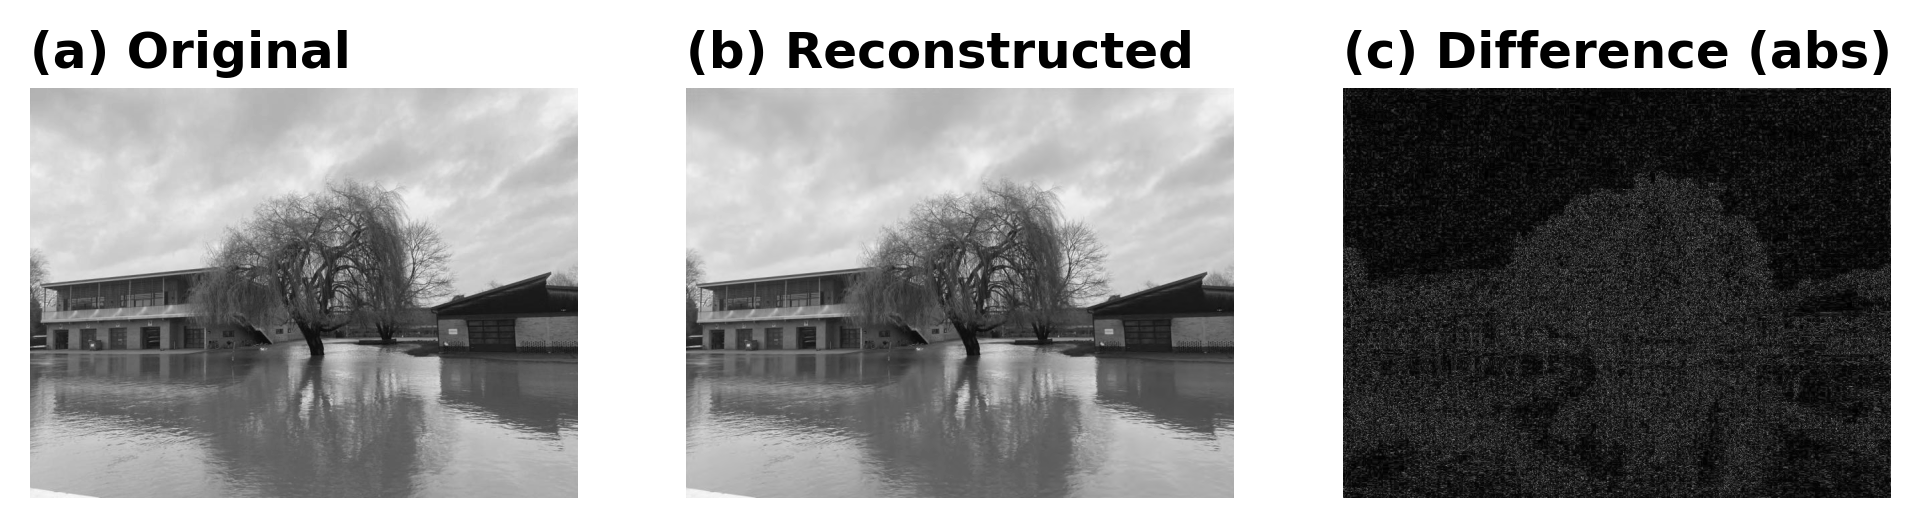
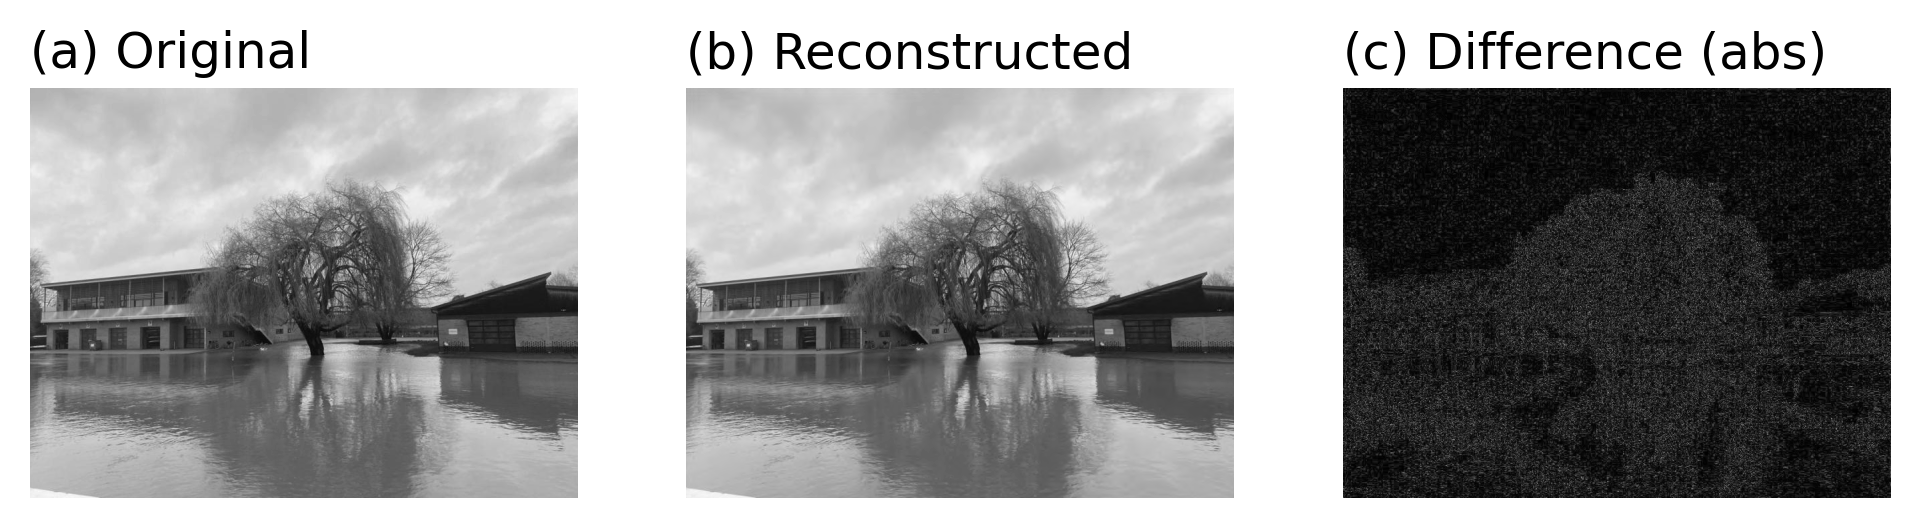
Minor

diff --git a/scripts/wavelet_compression.py b/scripts/wavelet_compression.py
@@ -77,13 +77,13 @@ print(f'Un-compressed reconstruction SSIM: {ssim:.5f}')
 # Show original, reconstruction, and difference
 fig, axes = plt.subplots(1,3,figsize=(8,8))
 axes[0].imshow(image,cmap='gray',vmin=vmin,vmax=vmax)
-axes[0].text(0., 1.05, '(a) Original', fontsize=12, transform=axes[0].transAxes, fontweight="bold")
+axes[0].text(0., 1.05, '(a) Original', fontsize=12, transform=axes[0].transAxes)
 
 axes[1].imshow(recon,cmap='gray',vmin=vmin,vmax=vmax)
-axes[1].text(0., 1.05, '(b) Reconstructed', fontsize=12, transform=axes[1].transAxes, fontweight="bold")
+axes[1].text(0., 1.05, '(b) Reconstructed', fontsize=12, transform=axes[1].transAxes)
 
 axes[2].imshow(abs_diff,cmap='gray')
-axes[2].text(0., 1.05, '(c) Difference (abs)', fontsize=12, transform=axes[2].transAxes, fontweight="bold")
+axes[2].text(0., 1.05, '(c) Difference (abs)', fontsize=12, transform=axes[2].transAxes)
 
 for ax in axes:
     ax.axis('off')
@@ -151,13 +151,13 @@ print(f'15% threshold SSIM: {ssim:.5f}')
 fig, axes = plt.subplots(1,3,figsize=(8,8))
 
 axes[0].imshow(image,cmap='gray',vmin=vmin,vmax=vmax)
-axes[0].text(0., 1.05, '(a) Original', fontsize=12, transform=axes[0].transAxes, fontweight="bold")
+axes[0].text(0., 1.05, '(a) Original', fontsize=12, transform=axes[0].transAxes)
 
 axes[1].imshow(recon,cmap='gray',vmin=vmin,vmax=vmax)
-axes[1].text(0., 1.05, '(b) Reconstructed', fontsize=12, transform=axes[1].transAxes, fontweight="bold")
+axes[1].text(0., 1.05, '(b) Reconstructed', fontsize=12, transform=axes[1].transAxes)
 
 axes[2].imshow(abs_diff,cmap='gray')
-axes[2].text(0., 1.05, '(c) Difference (abs)', fontsize=12, transform=axes[2].transAxes, fontweight="bold")
+axes[2].text(0., 1.05, '(c) Difference (abs)', fontsize=12, transform=axes[2].transAxes)
 
 for ax in axes:
     ax.axis('off')
@@ -203,7 +203,7 @@ for i, keep in enumerate(keep_proportions):
     # Show reconstruction and difference
 
     axes[i].imshow(recon,cmap='gray')
-    axes[i].set_title(f'{keep*100}% Retention', fontsize=12)
+    axes[i].set_title(f'{keep*100}% Retention', fontsize=13)
     axes[i].set_xlabel(f'PSNR: {psnr:.3f}, SSIM: {ssim:.3f}', fontsize=11)
     axes[i].set_xticks([]); axes[i].set_yticks([])
 

diff --git a/scripts/compressed_sensing.py b/scripts/compressed_sensing.py
@@ -96,19 +96,19 @@ fig, axes = plt.subplots(2, 2, figsize=(10, 7))
 
 axes[0, 0].stem(true_s)
 axes[0, 0].text(0.03, 0.9, '(a)', fontsize=15, transform=axes[0, 0].transAxes, fontweight="bold")
-axes[0, 0].set_ylabel('Real part', fontsize=12)
+axes[0, 0].set_ylabel('Real part', fontsize=14)
 
 axes[0, 1].stem(s)
 axes[0, 1].text(0.03, 0.9, '(b)', fontsize=15, transform=axes[0, 1].transAxes, fontweight="bold")
 
 axes[1, 0].stem(np.real(s_uniform))
 axes[1, 0].text(0.03, 0.9, '(c)', fontsize=15, transform=axes[1, 0].transAxes, fontweight="bold")
-axes[1, 0].set_xlabel('Component', fontsize=12)
-axes[1, 0].set_ylabel('Real part', fontsize=12)
+axes[1, 0].set_xlabel('Component', fontsize=14)
+axes[1, 0].set_ylabel('Real part', fontsize=14)
 
 axes[1, 1].stem(np.real(s_random))
 axes[1, 1].text(0.03, 0.9, '(d)', fontsize=15, transform=axes[1, 1].transAxes, fontweight="bold")
-axes[1, 1].set_xlabel('Component', fontsize=12)
+axes[1, 1].set_xlabel('Component', fontsize=14)
 
 fig.savefig(join(args.output_dir, 'CS_signals.png'))
 
@@ -135,16 +135,16 @@ fig, axes = plt.subplots(1, 3, figsize=(15, 4))
 
 axes[0].stem(s)
 axes[0].text(0.03, 0.9, '(a)', fontsize=15, transform=axes[0].transAxes, fontweight="bold")
-axes[0].set_ylabel('Real part', fontsize=12)
-axes[0].set_xlabel('Component', fontsize=12)
+axes[0].set_ylabel('Real part', fontsize=14)
+axes[0].set_xlabel('Component', fontsize=14)
 
 axes[1].stem(np.real(s_unif_recon))
 axes[1].text(0.03, 0.9, '(b)', fontsize=15, transform=axes[1].transAxes, fontweight="bold")
-axes[1].set_xlabel('Component', fontsize=12)
+axes[1].set_xlabel('Component', fontsize=14)
 
 axes[2].stem(np.real(s_rand_recon))
 axes[2].text(0.03, 0.9, '(c)', fontsize=15, transform=axes[2].transAxes, fontweight="bold")
-axes[2].set_xlabel('Component', fontsize=12)
+axes[2].set_xlabel('Component', fontsize=14)
 
 fig.savefig(join(args.output_dir, 'CS_reconstructions.png'))
 
